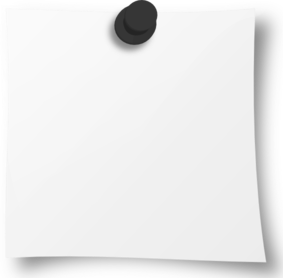
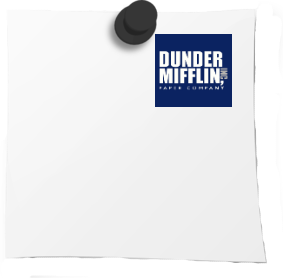
Switching to laptop so I can watch the office

Changed region(s): [[0.0283, 0.0576, 1.0, 1.0], [0.5371, 0.1151, 0.8198, 0.4029]]

diff --git a/10week/Checkpoint03/js/script.js b/10week/Checkpoint03/js/script.js
@@ -1,3 +1,5 @@
+ $(".employeeProf").hide();
+window.onload = function(){
 
 var data = {
   totalPaper:0,
@@ -26,154 +28,28 @@ $("#paperButton").click(function (){
 
 // sets variable for leveling system
 
-var michaelLev = 0;
-var ryanLev = 0;
-var pamLev = 0;
-var stanleyLev = 0;
-var andyLev = 0;
-var phyllisLev = 0;
-var jimLev = 0;
-var dwightLev = 0;
+
+$(".button").click(function (){
+var addVal = $(this).data( "cost" );
+if ($(this).data( "cost" ) <= data.totalPaper ) {
+data.totalPaper -= parseFloat($(this).data( "cost" ).toPrecision(2));
+data.totalPaperSec += parseFloat($(this).data( "val" ));
+$( this ).children(".price").html( parseInt($( this ).children(".price").html()*1.3));
+$( this ).data( "cost", parseInt($(this).data( "cost" ) * 1.3) );
+
+if ($( this ).children(".level").text()== "HIRE") {
+$( this ).children(".level").html("level <span class='lev'>1</span>");
+} else {
+console.log($( this ).find(".lev").text());
+$( this ).find(".lev").text(parseInt($( this ).find(".lev").text())+1);
+}
+}
+updateReport();
+})
 
 $("#michael").click(function (){
-  var addVal = $(this).data( "cost" );
-  if ($(this).data( "cost" ) <= data.totalPaper ) {
-    data.totalPaper -=  parseFloat($(this).data( "cost" ).toPrecision(2));
-    data.totalPaperSec += parseFloat($(this).data( "val" ));
-    $( this ).children(".price").html( parseInt($( this ).children(".price").html()*1.3));
-    $( this ).data( "cost", parseInt($(this).data( "cost" ) * 1.3) );
-			michaelLev++;
-		$( this ).children(".level").text("level " + michaelLev);
+  if ($(this).data( "cost" ) <= data.totalPaper ) && ($( this ).children(".level").text()== "HIRE") {
+    $("#michaelProf").show();
   }
-  updateReport();
 })
-
-$("#ryan").click(function (){
-  var addVal = $(this).data( "cost" );
-  if ($(this).data( "cost" ) <= data.totalPaper ) {
-    data.totalPaper -=  parseFloat($(this).data( "cost" ).toPrecision(2));
-    data.totalPaperSec += parseFloat($(this).data( "val" ));
-    $( this ).children(".price").html( parseInt($( this ).children(".price").html()*1.3));
-    $( this ).data( "cost", parseInt($(this).data( "cost" ) * 1.3) );
-			ryanLev++;
-		$( this ).children(".level").text("level " + ryanLev);
-  }
-  updateReport();
-})
-
-$("#pam").click(function (){
-  var addVal = $(this).data( "cost" );
-  if ($(this).data( "cost" ) <= data.totalPaper ) {
-    data.totalPaper -=  parseFloat($(this).data( "cost" ).toPrecision(2));
-    data.totalPaperSec += parseFloat($(this).data( "val" ));
-    $( this ).children(".price").html( parseInt($( this ).children(".price").html()*1.3));
-    $( this ).data( "cost", parseInt($(this).data( "cost" ) * 1.3) );
-			pamLev++;
-		$( this ).children(".level").text("level " + pamLev);
-  }
-  updateReport();
-})
-
-$("#stanley").click(function (){
-  var addVal = $(this).data( "cost" );
-  if ($(this).data( "cost" ) <= data.totalPaper ) {
-    data.totalPaper -=  parseFloat($(this).data( "cost" ).toPrecision(2));
-    data.totalPaperSec += parseFloat($(this).data( "val" ));
-    $( this ).children(".price").html( parseInt($( this ).children(".price").html()*1.3));
-    $( this ).data( "cost", parseInt($(this).data( "cost" ) * 1.3) );
-			stanleyLev++;
-		$( this ).children(".level").text("level " + stanleyLev);
-  }
-  updateReport();
-})
-
-$("#andy").click(function (){
-  var addVal = $(this).data( "cost" );
-  if ($(this).data( "cost" ) <= data.totalPaper ) {
-    data.totalPaper -=  parseFloat($(this).data( "cost" ).toPrecision(2));
-    data.totalPaperSec += parseFloat($(this).data( "val" ));
-    $( this ).children(".price").html( parseInt($( this ).children(".price").html()*1.3));
-    $( this ).data( "cost", parseInt($(this).data( "cost" ) * 1.3) );
-			andyLev++;
-		$( this ).children(".level").text("level " + andyLev);
-  }
-  updateReport();
-})
-
-$("#phyllis").click(function (){
-  var addVal = $(this).data( "cost" );
-  if ($(this).data( "cost" ) <= data.totalPaper ) {
-    data.totalPaper -=  parseFloat($(this).data( "cost" ).toPrecision(2));
-    data.totalPaperSec += parseFloat($(this).data( "val" ));
-    $( this ).children(".price").html( parseInt($( this ).children(".price").html()*1.3));
-    $( this ).data( "cost", parseInt($(this).data( "cost" ) * 1.3) );
-			phyllisLev++;
-		$( this ).children(".level").text("level " + phyllisLev);
-  }
-  updateReport();
-})
-
-$("#jim").click(function (){
-  var addVal = $(this).data( "cost" );
-  if ($(this).data( "cost" ) <= data.totalPaper ) {
-    data.totalPaper -=  parseFloat($(this).data( "cost" ).toPrecision(2));
-    data.totalPaperSec += parseFloat($(this).data( "val" ));
-    $( this ).children(".price").html( parseInt($( this ).children(".price").html()*1.3));
-    $( this ).data( "cost", parseInt($(this).data( "cost" ) * 1.3) );
-			jimLev++;
-		$( this ).children(".level").text("level " + jimLev);
-  }
-  updateReport();
-})
-
-$("#dwight").click(function (){
-  var addVal = $(this).data( "cost" );
-  if ($(this).data( "cost" ) <= data.totalPaper ) {
-    data.totalPaper -=  parseFloat($(this).data( "cost" ).toPrecision(2));
-    data.totalPaperSec += parseFloat($(this).data( "val" ));
-    $( this ).children(".price").html( parseInt($( this ).children(".price").html()*1.3));
-    $( this ).data( "cost", parseInt($(this).data( "cost" ) * 1.3) );
-			dwightLev++;
-		$( this ).children(".level").text("level " + dwightLev);
-  }
-  updateReport();
-})
-
-// $("#ryan").click(function (){
-//   var addVal = $(this).data( "cost" );
-//   if ($(this).data( "cost" ) <= data.totalPaper ) {
-//     data.totalPaper -=  parseFloat($(this).data( "cost" ).toPrecision(2));
-//     data.totalPaperSec += parseFloat($(this).data( "val" ));
-//     $( this ).children(".price").html( parseInt($( this ).children(".price").html()*1.3));
-//     $( this ).data( "cost", parseInt($(this).data( "cost" ) * 1.3) );
-// 			ryanLev++;
-// 		$( this ).children(".level").text("level " + ryanLev);
-//   }
-//   updateReport();
-// })
-//
-// $("#ryan").click(function (){
-//   var addVal = $(this).data( "cost" );
-//   if ($(this).data( "cost" ) <= data.totalPaper ) {
-//     data.totalPaper -=  parseFloat($(this).data( "cost" ).toPrecision(2));
-//     data.totalPaperSec += parseFloat($(this).data( "val" ));
-//     $( this ).children(".price").html( parseInt($( this ).children(".price").html()*1.3));
-//     $( this ).data( "cost", parseInt($(this).data( "cost" ) * 1.3) );
-// 			ryanLev++;
-// 		$( this ).children(".level").text("level " + ryanLev);
-//   }
-//   updateReport();
-// })
-//
-// $("#ryan").click(function (){
-//   var addVal = $(this).data( "cost" );
-//   if ($(this).data( "cost" ) <= data.totalPaper ) {
-//     data.totalPaper -=  parseFloat($(this).data( "cost" ).toPrecision(2));
-//     data.totalPaperSec += parseFloat($(this).data( "val" ));
-//     $( this ).children(".price").html( parseInt($( this ).children(".price").html()*1.3));
-//     $( this ).data( "cost", parseInt($(this).data( "cost" ) * 1.3) );
-// 			ryanLev++;
-// 		$( this ).children(".level").text("level " + ryanLev);
-//   }
-//   updateReport();
-// })
+} //closing onload

diff --git a/10week/Checkpoint03/index.html b/10week/Checkpoint03/index.html
@@ -17,43 +17,74 @@
 <small>Paper Sold/Sec <span id="paperSec"></span></small></div>
 
 <!-- 		Michael Button -->
-		<div class="button" id="michael" data-val="0.1" data-cost="10" data-level="0">Michael <br><span class="level">Hire</span><br>Price: <span class="price">10</span> pieces of paper</div>
+		<div class="button" id="michael" data-val="0.1" data-cost="10" data-level="0">Michael <br><span class="level">HIRE</span><br>Price: <span class="price">10</span> pieces of paper</div>
 
 <!-- 		Ryan Button -->
-	<div class="button" id="ryan" data-val="1" data-cost="50">Ryan <br><span class="level">hire</span><br>Price: <span class="price">50</span> pieces of paper</div>
+	<div class="button" id="ryan" data-val="1" data-cost="50">Ryan <br><span class="level">HIRE</span><br>Price: <span class="price">50</span> pieces of paper</div>
 
 		<!-- 	Pam Button -->
-	<div class="button" id="pam" data-val="5" data-cost="1000">Pam <br><span class="level">hire</span><br>Price: <span class="price">1,000</span> pieces of paper</div>
+	<div class="button" id="pam" data-val="5" data-cost="1000">Pam <br><span class="level">HIRE</span><br>Price: <span class="price">1,000</span> pieces of paper</div>
 
 <!-- 		Stanley Button -->
-	<div class="button" id="stanley" data-val="7" data-cost="5000">Stanley <br><span class="level">hire</span><br>Price: <span class="price">5,000</span> pieces of paper</div>
+	<div class="button" id="stanley" data-val="7" data-cost="5000">Stanley <br><span class="level">HIRE</span><br>Price: <span class="price">5,000</span> pieces of paper</div>
 
 <!-- 		Andy Button -->
-	<div class="button" id="andy" data-val="15" data-cost="10000">Andy <br><span class="level">hire</span><br>Price: <span class="price">10,000</span> pieces of paper</div>
+	<div class="button" id="andy" data-val="15" data-cost="10000">Andy <br><span class="level">HIRE</span><br>Price: <span class="price">10,000</span> pieces of paper</div>
 
 <!-- 		Phyllis button -->
-	<div class="button" id="phyllis" data-val="30" data-cost="100000">Phyllis <br><span class="level">hire</span><br>Price: <span class="price">100,000</span> pieces of paper</div>
+	<div class="button" id="phyllis" data-val="30" data-cost="100000">Phyllis <br><span class="level">HIRE</span><br>Price: <span class="price">100,000</span> pieces of paper</div>
 
 <!-- 		jim button -->
-	<div class="button" id="jim" data-val="50" data-cost="500000">Jim <br><span class="level">hire</span><br>Price: <span class="price">500,000</span> pieces of paper</div>
+	<div class="button" id="jim" data-val="50" data-cost="500000">Jim <br><span class="level">HIRE</span><br>Price: <span class="price">500,000</span> pieces of paper</div>
 
 <!-- 		dwight button -->
-	<div class="button" id="dwight" data-val="100" data-cost="1000000">Dwight <br><span class="level">hire</span><br>Price: <span class="price">1,000,000</span> pieces of paper</div>
+	<div class="button" id="dwight" data-val="100" data-cost="1000000">Dwight <br><span class="level">HIRE</span><br>Price: <span class="price">1,000,000</span> pieces of paper</div>
 </div>
 
 
 <!-- 	other part with employee pictures -->
-<!-- <div id="employeePics">
-	<div class="polaroid"><img class="headshot" src="https://upload.wikimedia.org/wikipedia/en/d/dc/MichaelScott.png" alt="Michael Scott"></div>
-	<div class="polaroid"><img class="headshot" src="https://vignette.wikia.nocookie.net/theoffice/images/e/e0/Ryan2.jpg/revision/latest?cb=20140726043954" alt="Michael Scott"></div>
-	<div class="polaroid"><img class="headshot" src="" alt="Michael Scott"></div>
-	<div class="polaroid"><img class="headshot" src="" alt="Michael Scott"></div>
-	<div class="polaroid"><img class="headshot" src="" alt="Michael Scott"></div>
-	<div class="polaroid"><img class="headshot" src="" alt="Michael Scott"></div>
-	<div class="polaroid"><img class="headshot" src="" alt="Michael Scott"></div>
-	<div class="polaroid"><img class="headshot" src="" alt="Michael Scott"></div>
+<div id="employeePics">
+	<div class="employeeProf" id="michaelProf">
+    <img class="headshot" src="img/Michael.png" alt="Michael Scott">
+    <!-- <img class="logo" src="img/DM logo.png" alt="Dunder Mifflin Inc. Logo"> -->
+    <h3>MICHAEL SCOTT</h3>
+    <p>
+      Manager <br>
+      "World's best boss"
+      HR Nightmare
+      Former salesman.
+    </p>
+  </div>
+	<!-- <div class="employeeProf">
+    <img class="headshot" src="img/Ryan.png" alt="Ryan Howard">
+
+  </div>
+	<div class="employeeProf">
+    <img class="headshot" src="img/Pam.png" alt="Pam Beesly-Halpert">
+
+  </div>
+	<div class="employeeProf">
+    <img class="headshot" src="img/Stanley.png" alt="Stanley Hudson">
+
+  </div>
+	<div class="employeeProf">
+    <img class="headshot" src="img/Andy.png" alt="Andy 'Nard Dog' Bernard">
+
+  </div>
+	<div class="employeeProf">
+    <img class="headshot" src="img/Phyllis.png" alt="Phyllis Vance">
+
+  </div>
+	<div class="employeeProf">
+    <img class="headshot" src="img/Jim.png" alt="Jim Halpert">
+
+  </div>
+	<div class="employeeProf">
+    <img class="headshot" src="img/Dwight.png" alt="Dwight Schrute">
+
+  </div> -->
 </div>
-</div> -->
+</div>
 
 <!-- javascript links -->
 <script src="https://cdnjs.cloudflare.com/ajax/libs/jquery/3.2.1/jquery.min.js"></script>

diff --git a/10week/Checkpoint03/css/style.css b/10week/Checkpoint03/css/style.css
@@ -99,21 +99,30 @@ h2{
 /* 	justify-content: space-around; */
 }
 
-.polaroid{
+.employeeProf{
 	height: 336px;
-	width: 300px;
-	background-image: url(http://www.clker.com/cliparts/R/A/6/i/F/y/note-pin-md.png);
+	width: 25%;
+	background-image: url(../img/note.png);
 	background-size: cover;
 	background-position: center top;
 	overflow: hidden;
 	margin: 0em 1.5em 0em 1.5em;
+	padding:50px 35px;
 }
 
 .headshot{
-	height: 150px;
-	width: 50%;
-	margin: 60px 30% 0px 20%;
+	/*height: 150px;*/
+	width: 30%;
+	/*margin: 40px 60% 0px 0px;*/
 	border-radius: 3px;
-	box-shadow: 1px 1px 5px #fffb30;
+	box-shadow: 1px 1px 2px grey;
+	display: inline-block;
+	float: left;
+
 /* 	overflow: hidden; */
 }
+
+/*.logo{
+	width: 30%;
+	display: inline-block;
+}*/
